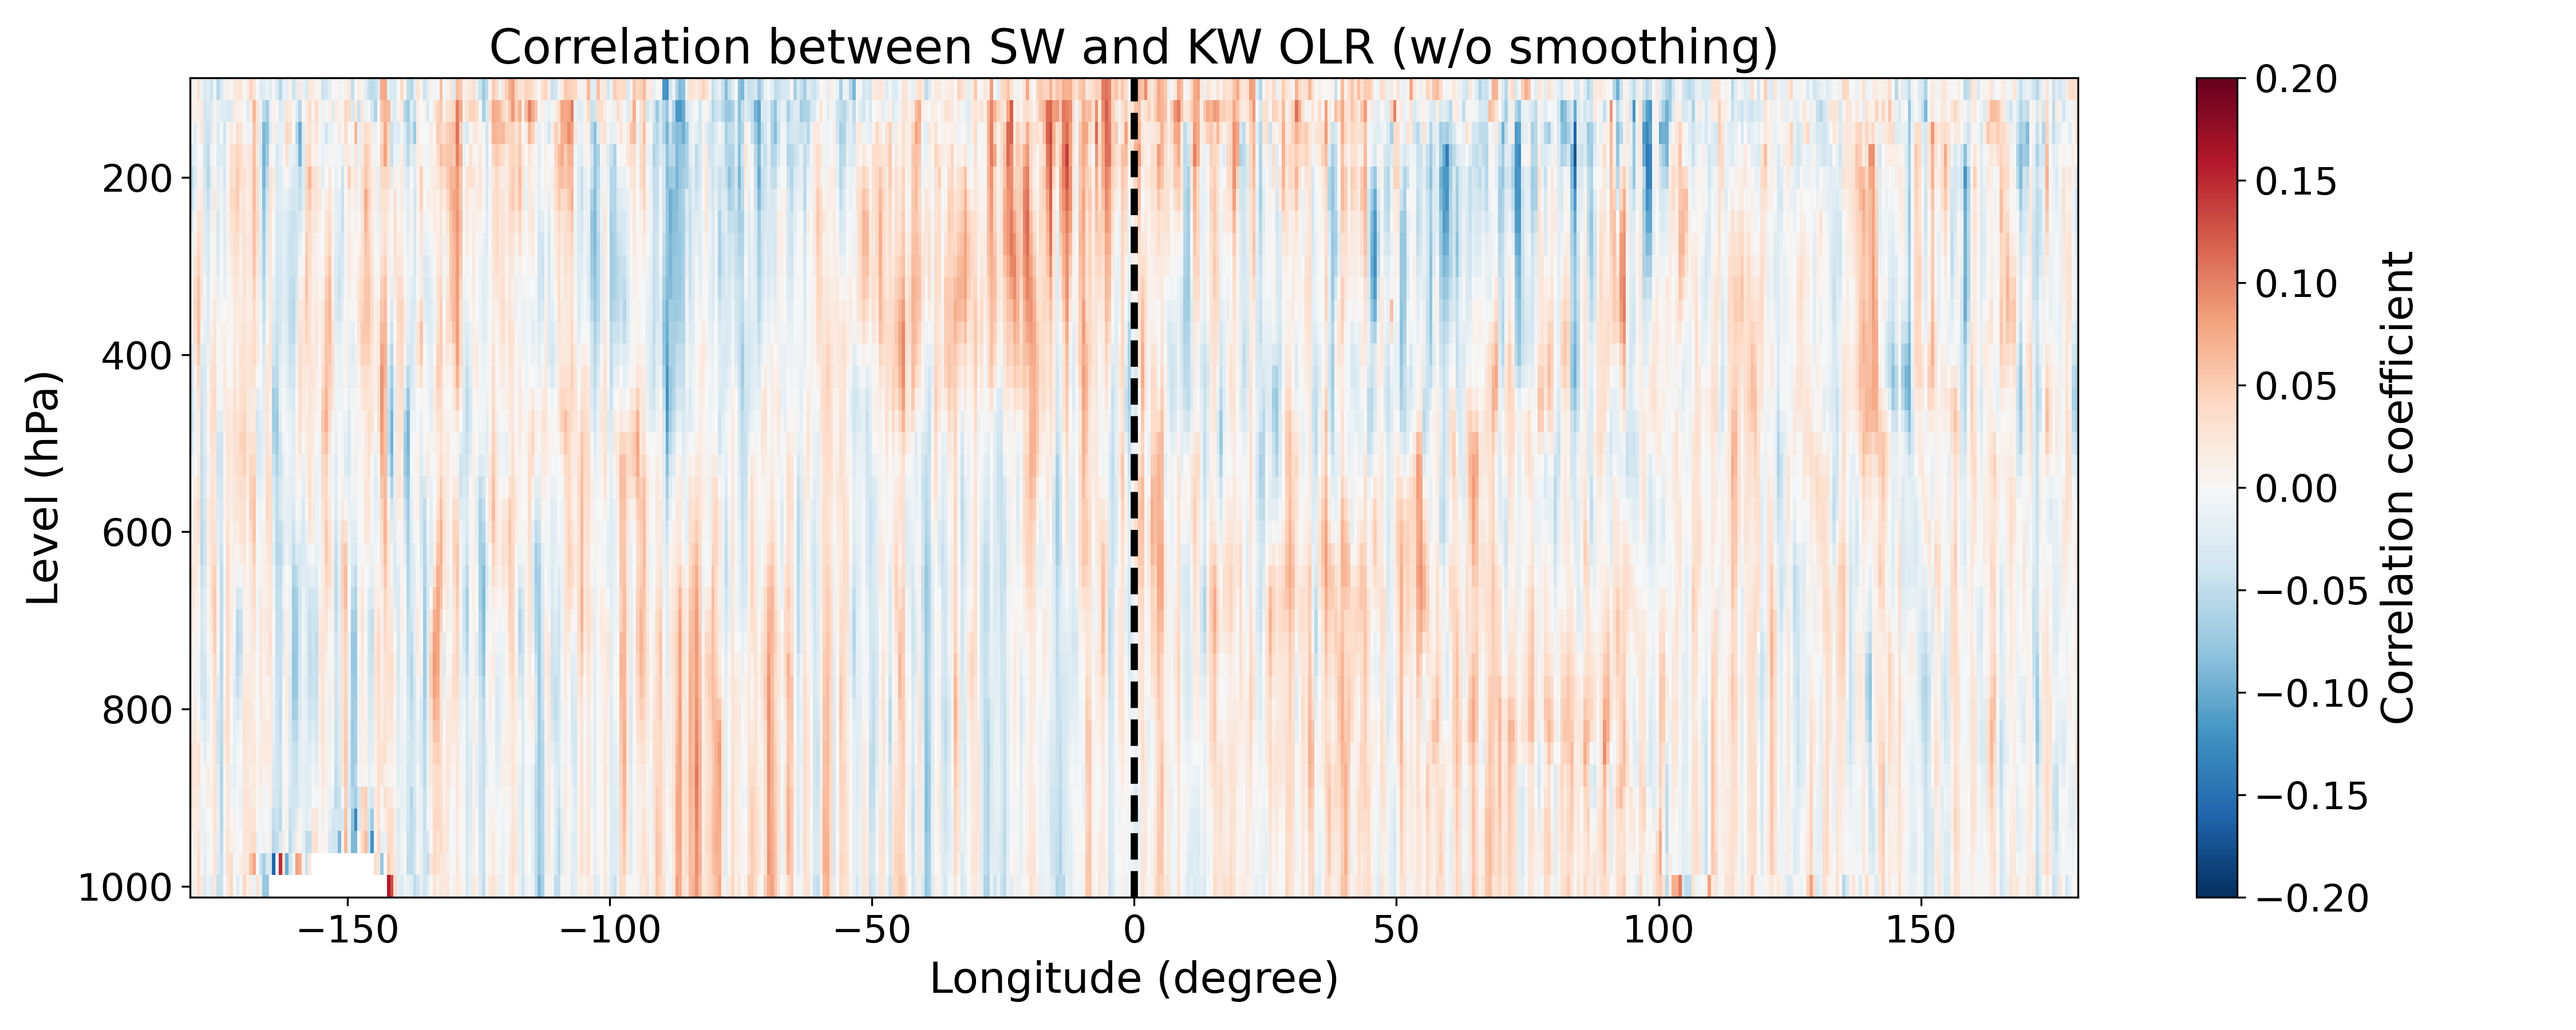
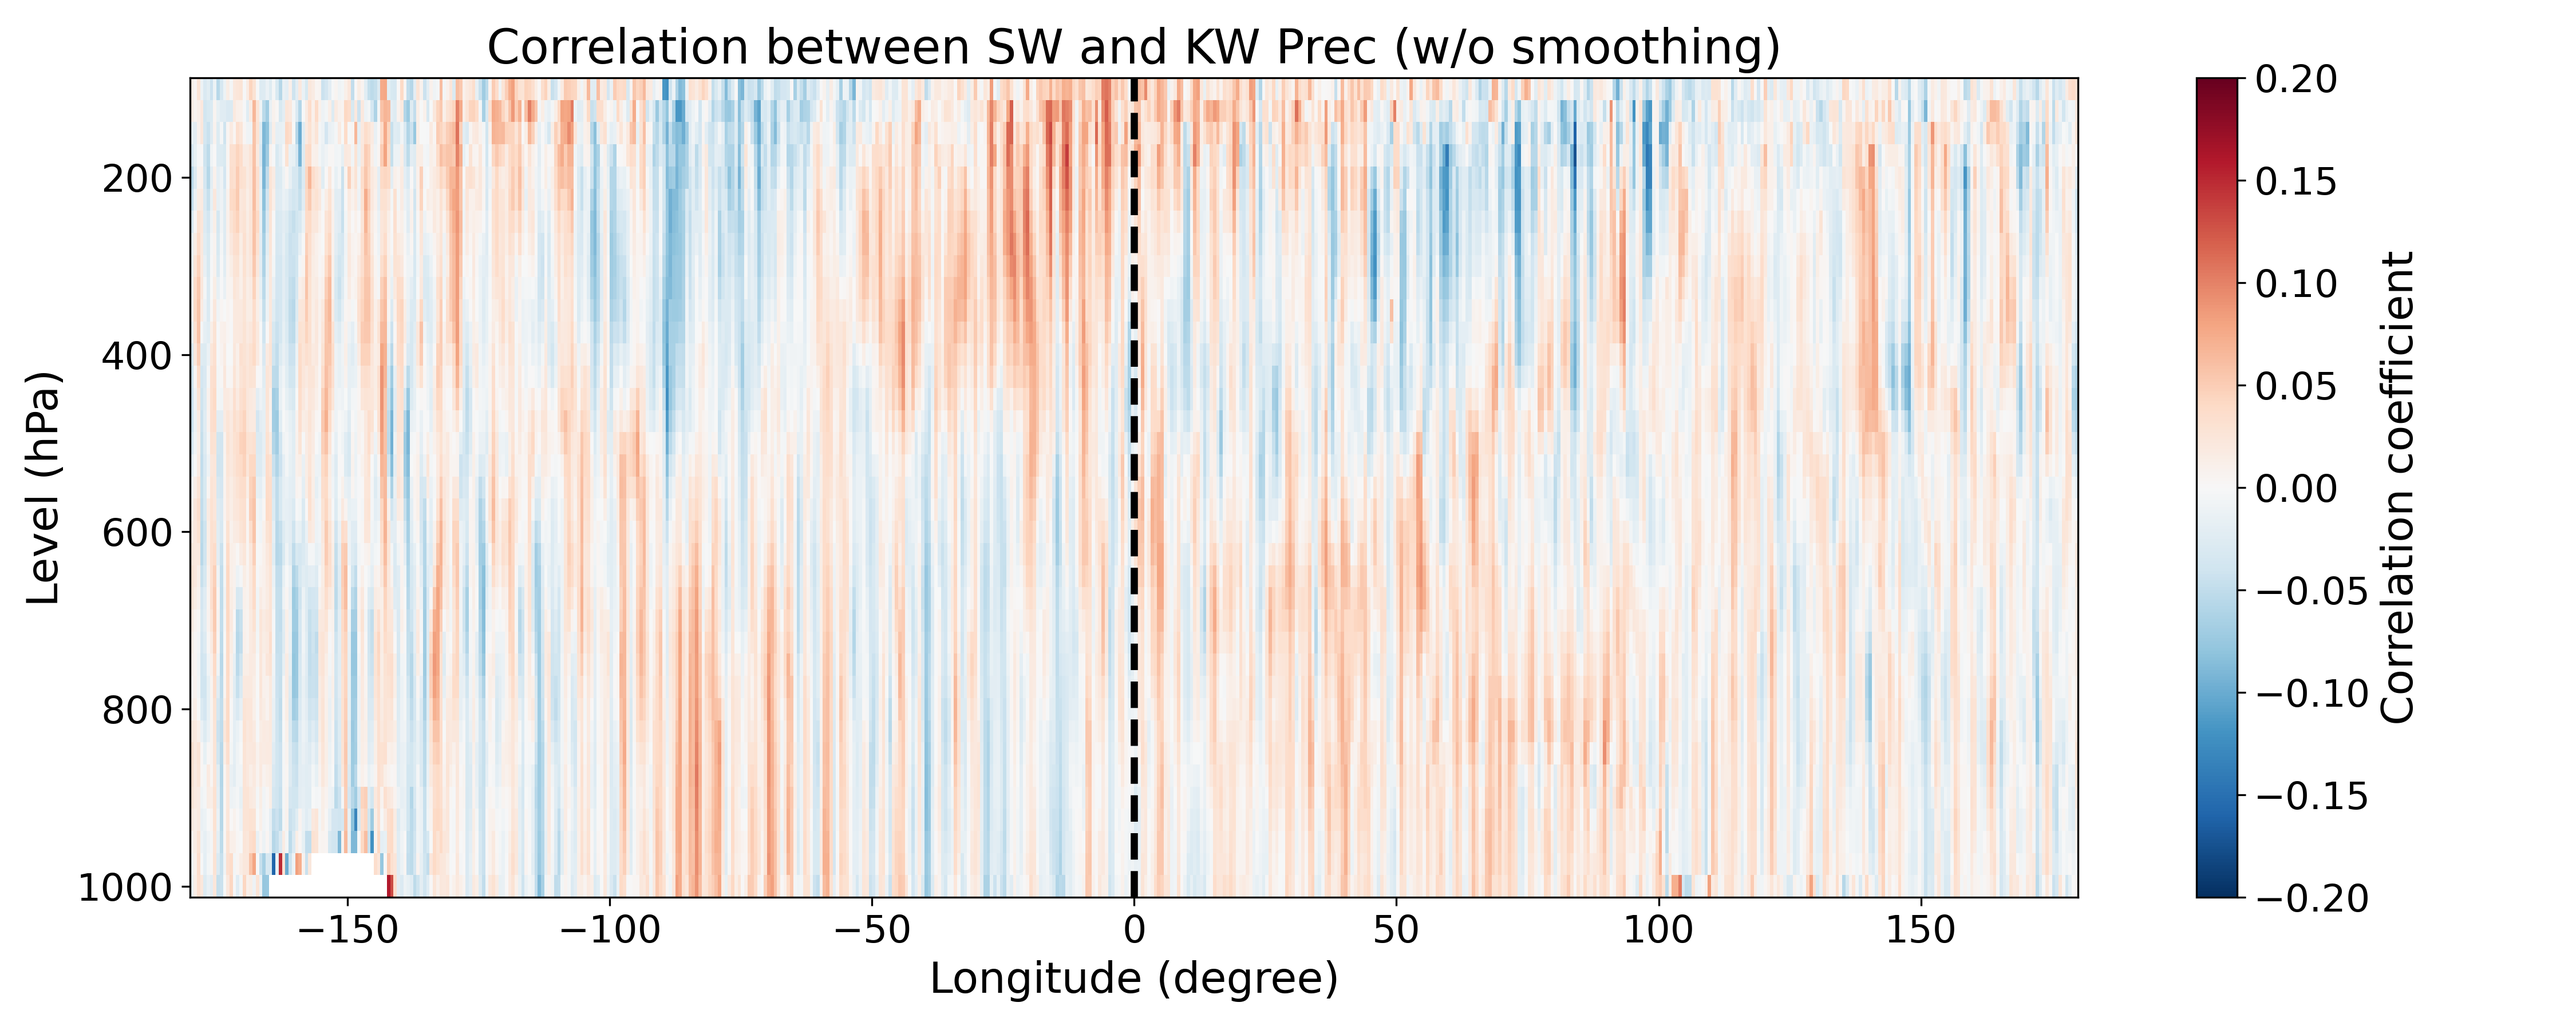
new regression coefficient profile

Changed region(s): [[0.1867, 0.0311, 0.6844, 0.0622]]

diff --git a/Code/IMERG/regress.py b/Code/IMERG/regress.py
@@ -40,8 +40,8 @@ with xr.open_dataset("/work/b11209013/2025_Research/CloudSat/CloudSat_sub/qsw.nc
     qsw = f["qsw"].values
 
 # Load KW-filtered OLR
-# with h5py.File(f"/home/b11209013/2025_Research/Obs/Files/IMERG/prec_kw_k_{k_domains[0]}_{k_domains[1]}.h5", "r") as f:
-with h5py.File(f"/home/b11209013/2025_Research/Obs/Files/IMERG/prec_mjo_k_{k_domains[0]}_{k_domains[1]}.h5", "r") as f:
+with h5py.File(f"/home/b11209013/2025_Research/Obs/Files/IMERG/prec_kw_k_{k_domains[0]}_{k_domains[1]}.h5", "r") as f:
+# with h5py.File(f"/home/b11209013/2025_Research/Obs/Files/IMERG/prec_mjo_k_{k_domains[0]}_{k_domains[1]}.h5", "r") as f:
 
     lon_kw = np.array(f.get("lon"))
     lon_tar = int(np.argmin(np.abs(lon_kw - central_lon)))
@@ -52,6 +52,16 @@ with h5py.File(f"/home/b11209013/2025_Research/Obs/Files/IMERG/prec_mjo_k_{k_dom
 #######################
 # 3. Regression
 #######################
+def regress_slope(x, y):
+    x = np.asarray(x)
+    y = np.asarray(y)
+
+    x_mean = x.mean()
+    y_mean = y.mean()
+
+    beta = np.sum((x - x_mean) * (y - y_mean)) / np.sum((x - x_mean)**2)
+    return beta
+
 
 # find non-nan indices
 qlw_reshape = qlw.reshape(nt, nz*nx)
@@ -60,6 +70,9 @@ qsw_reshape = qsw.reshape(nt, nz*nx)
 qlw_corr = np.empty((nx*nz))
 qsw_corr = np.empty((nx*nz))
 
+qlw_reg  = np.empty((nx*nz))
+qsw_reg  = np.empty((nx*nz))
+
 for i in tqdm(range(qlw_reshape.shape[1])):
     qlw_non_nan = ~np.isnan(qlw_reshape[:,i])
     qsw_non_nan = ~np.isnan(qsw_reshape[:,i])
@@ -67,26 +80,39 @@ for i in tqdm(range(qlw_reshape.shape[1])):
     if ~np.any(qlw_non_nan):
         qlw_corr[i] = np.nan
         qsw_corr[i] = np.nan
+
+        qlw_reg[i]  = np.nan
+        qsw_reg[i]  = np.nan
         continue
 
-    qlw_valid = qlw_reshape[:,i][qlw_non_nan]
-    qsw_valid = qsw_reshape[:,i][qsw_non_nan]
-    qlw_olr_valid = prec[qlw_non_nan]
-    qsw_olr_valid = prec[qsw_non_nan]    
+    qlw_valid      = qlw_reshape[:,i][qlw_non_nan]
+    qsw_valid      = qsw_reshape[:,i][qsw_non_nan]
+    qlw_prec_valid = prec[qlw_non_nan]
+    qsw_prec_valid = prec[qsw_non_nan]
 
-    qlw_corr[i] = np.corrcoef(qlw_valid, qlw_olr_valid)[0, 1]
-    qsw_corr[i] = np.corrcoef(qsw_valid, qsw_olr_valid)[0, 1]
+    qlw_corr[i] = np.corrcoef(qlw_valid, qlw_prec_valid)[0, 1]
+    qsw_corr[i] = np.corrcoef(qsw_valid, qsw_prec_valid)[0, 1]
+
+    qlw_reg[i]  = regress_slope(qlw_prec_valid, qlw_valid)
+    qsw_reg[i]  = regress_slope(qsw_prec_valid, qsw_valid)
 
 qlw_corr = qlw_corr.reshape(nz, nx)
 qsw_corr = qsw_corr.reshape(nz, nx)
 
+qlw_reg  = qlw_reg.reshape(nz, nx)
+qsw_reg  = qsw_reg.reshape(nz, nx)
+
 #######################
 # 4. save file
 #######################
-# with h5py.File(f"/home/b11209013/2025_Research/Obs/Files/IMERG/Corr/corr_kw_k_{k_domains[0]}_{k_domains[1]}_lon={central_lon}.h5", "w") as f:
-with h5py.File(f"/home/b11209013/2025_Research/Obs/Files/IMERG/Corr/corr_mjo_k_{k_domains[0]}_{k_domains[1]}_lon={central_lon}.h5", "w") as f:
+with h5py.File(f"/home/b11209013/2025_Research/Obs/Files/IMERG/Corr/corr_kw_k_{k_domains[0]}_{k_domains[1]}_lon={central_lon}.h5", "w") as f:
+# with h5py.File(f"/home/b11209013/2025_Research/Obs/Files/IMERG/Corr/corr_mjo_k_{k_domains[0]}_{k_domains[1]}_lon={central_lon}.h5", "w") as f:
     f.create_dataset("qlw_corr", data=qlw_corr)
     f.create_dataset("qsw_corr", data=qsw_corr)
+    f.create_dataset("qlw_reg" , data=qlw_reg )
+    f.create_dataset("qsw_reg" , data=qsw_reg )
+
+
 
 #######################
 # 5. Plot
@@ -107,15 +133,15 @@ if central_lon==180:
     plt.yticks(fontsize=16)
     plt.xlabel("Longitude (degree)", fontsize=18)
     plt.ylabel("Level (hPa)", fontsize=18)
-    # plt.title("Correlation between LW and KW prec (w/o smoothing)", fontsize=20)
-    plt.title("Correlation between LW and MJO OLR (w/o smoothing)", fontsize=20)
+    plt.title("Correlation between LW and KW Prec (w/o smoothing)", fontsize=20)
+    # plt.title("Correlation between LW and MJO Prec (w/o smoothing)", fontsize=20)
     plt.gca().invert_yaxis()
     cb = plt.colorbar()
     cb.ax.set_ylabel("Correlation coefficient", fontsize=18)
     cb.ax.tick_params(labelsize=16)
     plt.tight_layout()
-    # plt.savefig(f"/home/b11209013/2025_Research/Obs/Figure/IMERG_corr/qlw_kw_k_{k_domains[0]}_{k_domains[1]}.png", dpi=300)
-    plt.savefig(f"/home/b11209013/2025_Research/Obs/Figure/IMERG_corr/qlw_mjo_k_{k_domains[0]}_{k_domains[1]}.png", dpi=300)
+    plt.savefig(f"/home/b11209013/2025_Research/Obs/Figure/IMERG_corr/qlw_kw_k_{k_domains[0]}_{k_domains[1]}.png", dpi=300)
+    # plt.savefig(f"/home/b11209013/2025_Research/Obs/Figure/IMERG_corr/qlw_mjo_k_{k_domains[0]}_{k_domains[1]}.png", dpi=300)
     plt.close()
 
     plt.figure(figsize=(15, 6))
@@ -129,13 +155,58 @@ if central_lon==180:
     plt.yticks(fontsize=16)
     plt.xlabel("Longitude (degree)", fontsize=18)
     plt.ylabel("Level (hPa)", fontsize=18)
-    # plt.title("Correlation between SW and KW OLR (w/o smoothing)", fontsize=20)
-    plt.title("Correlation between SW and MJO OLR (w/o smoothing)", fontsize=20)
+    plt.title("Correlation between SW and KW Prec (w/o smoothing)", fontsize=20)
+    # plt.title("Correlation between SW and MJO Prec (w/o smoothing)", fontsize=20)
     plt.gca().invert_yaxis()
     cb = plt.colorbar()
     cb.ax.set_ylabel("Correlation coefficient", fontsize=18)
     cb.ax.tick_params(labelsize=16)
     plt.tight_layout()
-    # plt.savefig(f"/home/b11209013/2025_Research/Obs/Figure/IMERG_corr/qsw_kw_k_{k_domains[0]}_{k_domains[1]}.png", dpi=300)
-    plt.savefig(f"/home/b11209013/2025_Research/Obs/Figure/IMERG_corr/qsw_mjo_k_{k_domains[0]}_{k_domains[1]}.png", dpi=300)
+    plt.savefig(f"/home/b11209013/2025_Research/Obs/Figure/IMERG_corr/qsw_kw_k_{k_domains[0]}_{k_domains[1]}.png", dpi=300)
+    # plt.savefig(f"/home/b11209013/2025_Research/Obs/Figure/IMERG_corr/qsw_mjo_k_{k_domains[0]}_{k_domains[1]}.png", dpi=300)
+    plt.close()
+
+    # Plot regression coefficient 
+    plt.figure(figsize=(15, 6))
+    cf = plt.pcolormesh(
+        lon_plot, np.linspace(1000, 100, 37), qlw_reg,
+        cmap="BrBG",
+        norm=TwoSlopeNorm(vcenter=0, vmin=-5, vmax=5)
+        )
+    plt.axvline(0, color="k", linewidth=3, linestyle="--")
+    plt.xticks(fontsize=16)
+    plt.yticks(fontsize=16)
+    plt.xlabel("Longitude (degree)", fontsize=18)
+    plt.ylabel("Level (hPa)", fontsize=18)
+    plt.title("Regression Coefficient between LW and KW Prec (w/o smoothing)", fontsize=20)
+    # plt.title("Regression Coefficient between LW and MJO Prec (w/o smoothing)", fontsize=20)
+    plt.gca().invert_yaxis()
+    cb = plt.colorbar()
+    cb.ax.set_ylabel("Regression coefficient", fontsize=18)
+    cb.ax.tick_params(labelsize=16)
+    plt.tight_layout()
+    plt.savefig(f"/home/b11209013/2025_Research/Obs/Figure/IMERG_reg/qlw_kw_k_{k_domains[0]}_{k_domains[1]}.png", dpi=300)
+    # plt.savefig(f"/home/b11209013/2025_Research/Obs/Figure/IMERG_reg/qlw_mjo_k_{k_domains[0]}_{k_domains[1]}.png", dpi=300)
+    plt.close()
+
+    plt.figure(figsize=(15, 6))
+    cf = plt.pcolormesh(
+        lon_plot, np.linspace(1000, 100, 37), qsw_reg,
+        cmap="BrBG",
+        norm=TwoSlopeNorm(vcenter=0, vmin=-5, vmax=5)
+        )
+    plt.axvline(0, color="k", linewidth=3, linestyle="--")
+    plt.xticks(fontsize=16)
+    plt.yticks(fontsize=16)
+    plt.xlabel("Longitude (degree)", fontsize=18)
+    plt.ylabel("Level (hPa)", fontsize=18)
+    plt.title("Regression Coefficient between SW and KW Prec (w/o smoothing)", fontsize=20)
+    # plt.title("Regression Coefficient between SW and MJO Prec (w/o smoothing)", fontsize=20)
+    plt.gca().invert_yaxis()
+    cb = plt.colorbar()
+    cb.ax.set_ylabel("Regression coefficient", fontsize=18)
+    cb.ax.tick_params(labelsize=16)
+    plt.tight_layout()
+    plt.savefig(f"/home/b11209013/2025_Research/Obs/Figure/IMERG_reg/qsw_kw_k_{k_domains[0]}_{k_domains[1]}.png", dpi=300)
+    # plt.savefig(f"/home/b11209013/2025_Research/Obs/Figure/IMERG_reg/qsw_mjo_k_{k_domains[0]}_{k_domains[1]}.png", dpi=300)
     plt.close()

diff --git a/Code/IMERG/regcoeff_composite.py b/Code/IMERG/regcoeff_composite.py
@@ -1,0 +1,94 @@
+# This program is to composite correlation coefficient of different reference longitude
+
+#####################
+# 1. impoert package
+#####################
+
+import os
+import sys
+import h5py
+import numpy as np
+import matplotlib.pyplot as plt
+
+from glob import glob
+from matplotlib.colors import TwoSlopeNorm
+
+#####################
+# 2. load data
+#####################
+
+k_domains = (int(sys.argv[1]), int(sys.argv[2]))
+
+PATH_INPUT = "/home/b11209013/2025_Research/Obs/Files/IMERG/Corr/"
+
+FILES = glob(f"{PATH_INPUT}corr_kw_k_{k_domains[0]}_{k_domains[1]}_lon=*.h5")
+# FILES = glob(f"{PATH_INPUT}corr_mjo_k_{k_domains[0]}_{k_domains[1]}_lon=*.h5")
+
+qlw = []; qsw = []
+
+for f in FILES:
+    with h5py.File(f, "r") as h:
+        qlw.append(np.array(h.get("qlw_corr")))
+        qsw.append(np.array(h.get("qsw_corr")))
+
+qlw = np.nanmean(np.array(qlw), axis=0)
+qsw = np.nanmean(np.array(qsw), axis=0)
+
+lev = np.linspace(1000, 100, 37)
+lon = np.linspace(-180, 180, 576)
+
+plt.rcParams["font.family"] = "DejaVu Sans" 
+# Original
+plt.figure(figsize=(15, 6))
+cf = plt.pcolormesh(
+    lon, np.linspace(1000, 100, 37), qlw,
+    cmap="RdBu_r",
+    norm=TwoSlopeNorm(vcenter=0, vmin=-0.1, vmax=0.1)
+    )
+plt.xlim(-100, 100)
+plt.axvline(0, color="k", linewidth=3, linestyle="--")
+plt.xticks(fontsize=16)
+plt.yticks(fontsize=16)
+plt.xlabel("Longitude (degree)", fontsize=18)
+plt.ylabel("Level (hPa)", fontsize=18)
+plt.title("Correlation between LW and KW Prec (composite)", fontsize=20)
+# plt.title("Correlation between LW and MJO Prec (composite)", fontsize=20)
+plt.gca().invert_yaxis()
+cb = plt.colorbar()
+cb.ax.set_ylabel("Correlation coefficient", fontsize=18)
+cb.ax.tick_params(labelsize=16)
+plt.tight_layout()
+plt.savefig(f"/home/b11209013/2025_Research/Obs/Figure/IMERG_corr/qlw_kw_k_{k_domains[0]}_{k_domains[1]}_compsite.png", dpi=300)
+# plt.savefig(f"/home/b11209013/2025_Research/Obs/Figure/IMERG_corr/qlw_mjo_k_{k_domains[0]}_{k_domains[1]}_composite.png", dpi=300)
+plt.close()
+
+plt.figure(figsize=(15, 6))
+cf = plt.pcolormesh(
+    lon, np.linspace(1000, 100, 37), qsw,
+    cmap="RdBu_r",
+    norm=TwoSlopeNorm(vcenter=0, vmin=-0.1, vmax=0.1)
+    )
+plt.xlim(-100, 100)
+plt.axvline(0, color="k", linewidth=3, linestyle="--")
+plt.xticks(fontsize=16)
+plt.yticks(fontsize=16)
+plt.xlabel("Longitude (degree)", fontsize=18)
+plt.ylabel("Level (hPa)", fontsize=18)
+plt.title("Correlation between SW and KW Prec (composite)", fontsize=20)
+# plt.title("Correlation between SW and MJO Prec (composite)", fontsize=20)
+plt.gca().invert_yaxis()
+cb = plt.colorbar()
+cb.ax.set_ylabel("Correlation coefficient", fontsize=18)
+cb.ax.tick_params(labelsize=16)
+plt.tight_layout()
+plt.savefig(f"/home/b11209013/2025_Research/Obs/Figure/IMERG_corr/qsw_kw_k_{k_domains[0]}_{k_domains[1]}_compsite.png", dpi=300)
+# plt.savefig(f"/home/b11209013/2025_Research/Obs/Figure/IMERG_corr/qsw_mjo_k_{k_domains[0]}_{k_domains[1]}_composite.png", dpi=300)
+plt.close()
+
+#####################
+# 3. save composited correlation
+#####################
+with h5py.File(f"{PATH_INPUT}corr_kw_k_{k_domains[0]}_{k_domains[1]}_composite.h5", "w") as h:
+# with h5py.File(f"{PATH_INPUT}corr_mjo_k_{k_domains[0]}_{k_domains[1]}_composite.h5", "w") as h:
+    h.create_dataset("qlw_corr", data=qlw)
+    h.create_dataset("qsw_corr", data=qsw)

diff --git a/Code/ERA5/regress.py b/Code/ERA5/regress.py
@@ -1,0 +1,17 @@
+# =========================================================
+# Regress moisture and temperature against KW precipitation
+# =========================================================
+
+##################
+# Import package
+##################
+
+import numpy as np
+import xarray as xr
+from matplotlib import pyplot as plt;
+
+####################
+# Load data
+####################
+
+
